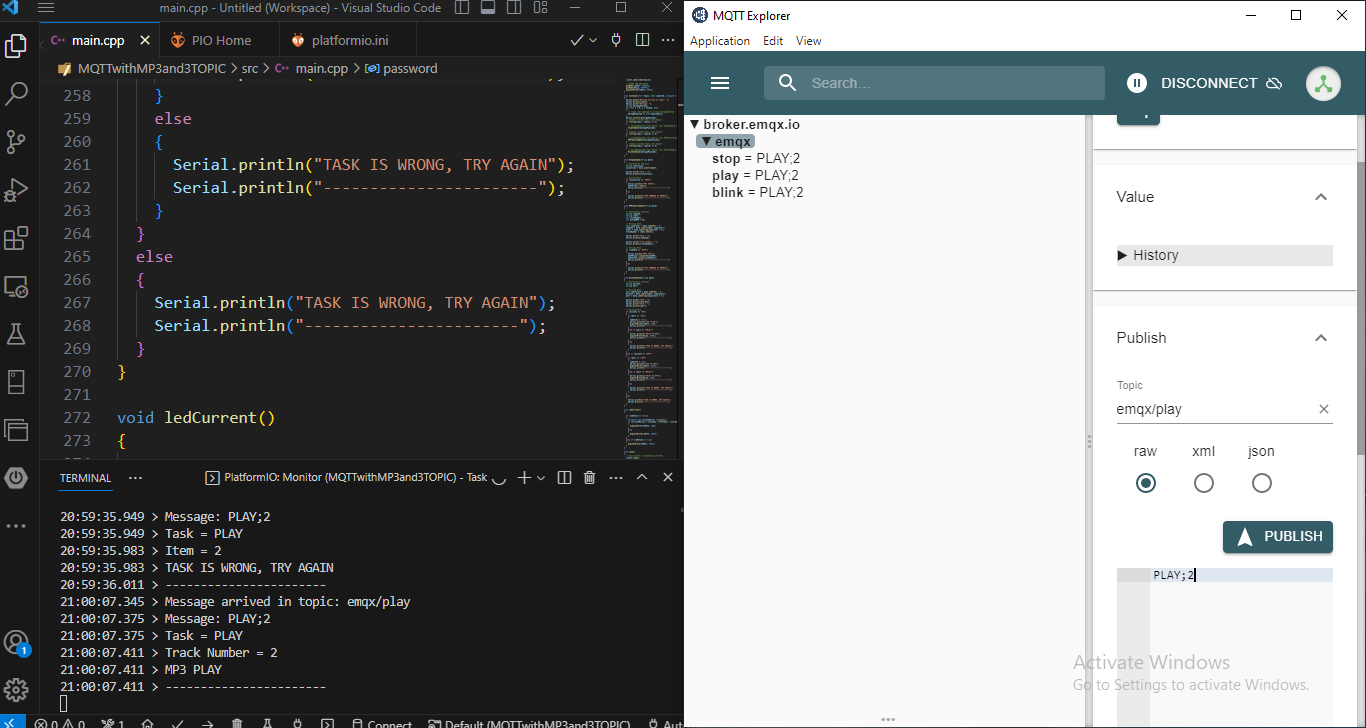
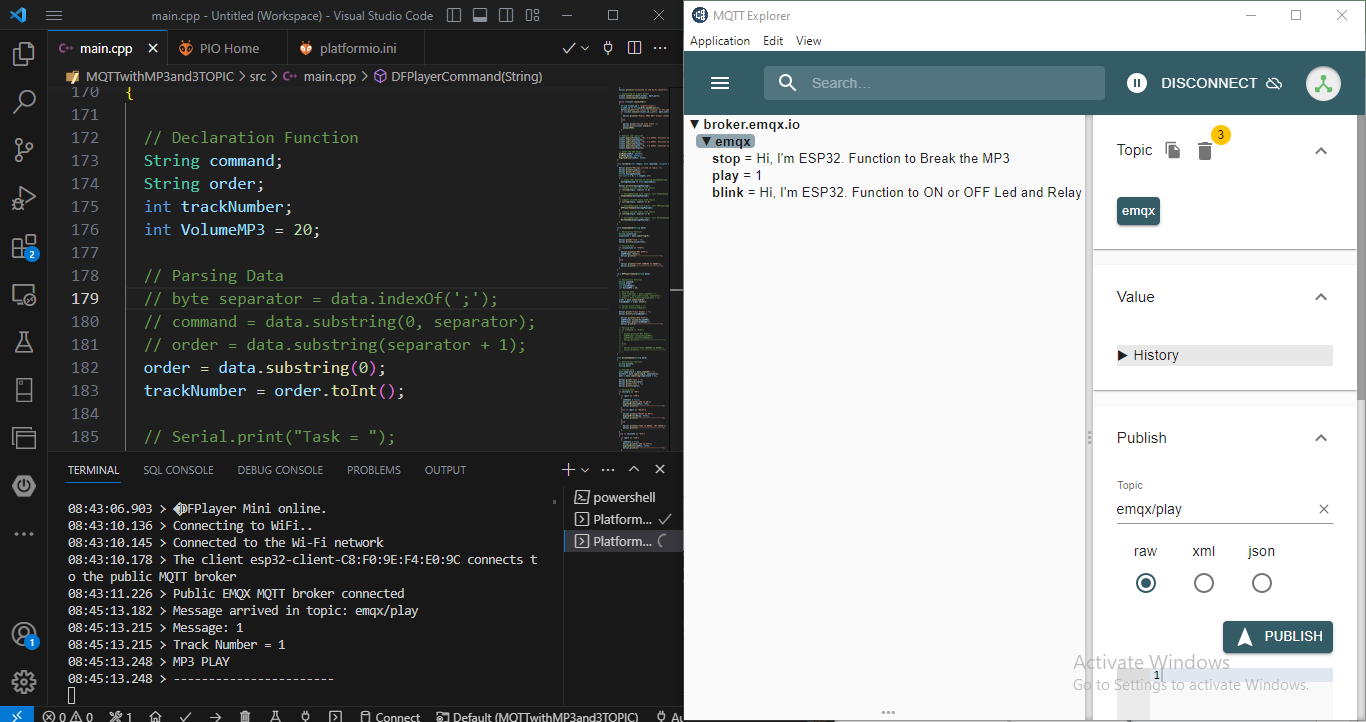
MQTT with 3 Topic
MQTT 3 Topic to Control LED, Relay and Module MP3-TF-16P

diff --git a/MQTTwithMP3and3TOPIC/src/main.cpp b/MQTTwithMP3and3TOPIC/src/main.cpp
@@ -17,10 +17,8 @@ const int onTime1 = 2000; // Interval 2 second
 const int offTime1 = 2000;
 
 // WiFi
-// const char *ssid = "DEV UJI_COBA";    // Enter your Wi-Fi name
-// const char *password = "ujicobadulu"; // Enter Wi-Fi password
-const char *ssid = "Dzakyfio";    // Enter your Wi-Fi name
-const char *password = "wiwis2305"; // Enter Wi-Fi password
+const char *ssid = "NOCOLA_DEV_ATAS";   // Enter your Wi-Fi name
+const char *password = "NOCOLADEV2021"; // Enter Wi-Fi password
 
 // MQTT Broker
 const char *mqtt_broker = "broker.emqx.io";
@@ -42,7 +40,7 @@ DFRobotDFPlayerMini myDFPlayer;
 WiFiClient espClient;
 PubSubClient client(espClient);
 void DFPlayerCommand(String data);
-void StopCommand(String data);
+void StopCommand(String);
 void BlinkCommand(String data);
 void callback(char *topic, byte *payload, unsigned int length);
 
@@ -144,63 +142,31 @@ void callback(char *topic, byte *payload, unsigned int length)
   }
 }
 
-void StopCommand(String data)
+void StopCommand(String)
 {
-  // Declaration Function
-  String injunction;
-  injunction = data.substring(0);
-
-  Serial.print("Task = ");
-  Serial.println(injunction);
-
-  // Parsing Work
-  if (injunction == "STOP")
-  {
-    Serial.println("MP3 STOP");
-    myDFPlayer.reset();
-    Serial.println("-----------------------");
-  }
-  else
-  {
-    Serial.println("STOP COMMAND IS WRONG");
-    Serial.println("-----------------------");
-  }
+  myDFPlayer.reset();
+  Serial.println("MP3 STOP");
 }
 
 void DFPlayerCommand(String data)
 {
 
   // Declaration Function
-  String command;
   String order;
   int trackNumber;
   int VolumeMP3 = 20;
 
-  // Parsing Data
-  byte separator = data.indexOf(';');
-  command = data.substring(0, separator);
-  order = data.substring(separator + 1);
+  // Parsing Data and Change String to Integer
+  order = data.substring(0);
   trackNumber = order.toInt();
-
-  Serial.print("Task = ");
-  Serial.println(command);
 
   Serial.print("Track Number = ");
   Serial.println(trackNumber);
 
-  // Parsing Work
-  if (command == "PLAY")
-  {
-    Serial.println("MP3 PLAY");
-    myDFPlayer.volume(VolumeMP3);
-    myDFPlayer.play(trackNumber);
-    Serial.println("-----------------------");
-  }
-  else
-  {
-    Serial.println("PLAY COMMAND IS WRONG");
-    Serial.println("-----------------------");
-  }
+  // Serial.println("MP3 PLAY");
+  myDFPlayer.volume(VolumeMP3);
+  myDFPlayer.play(trackNumber);
+  Serial.println("-----------------------");
 }
 
 void BlinkCommand(String data)
